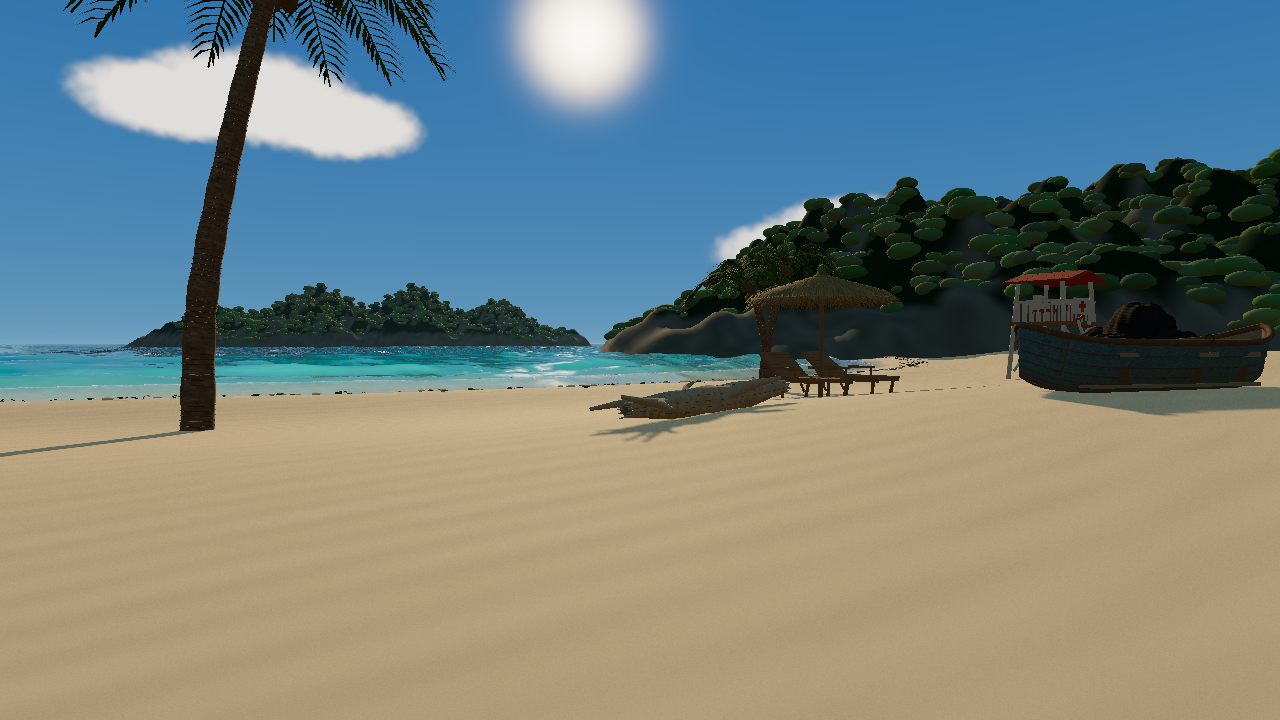
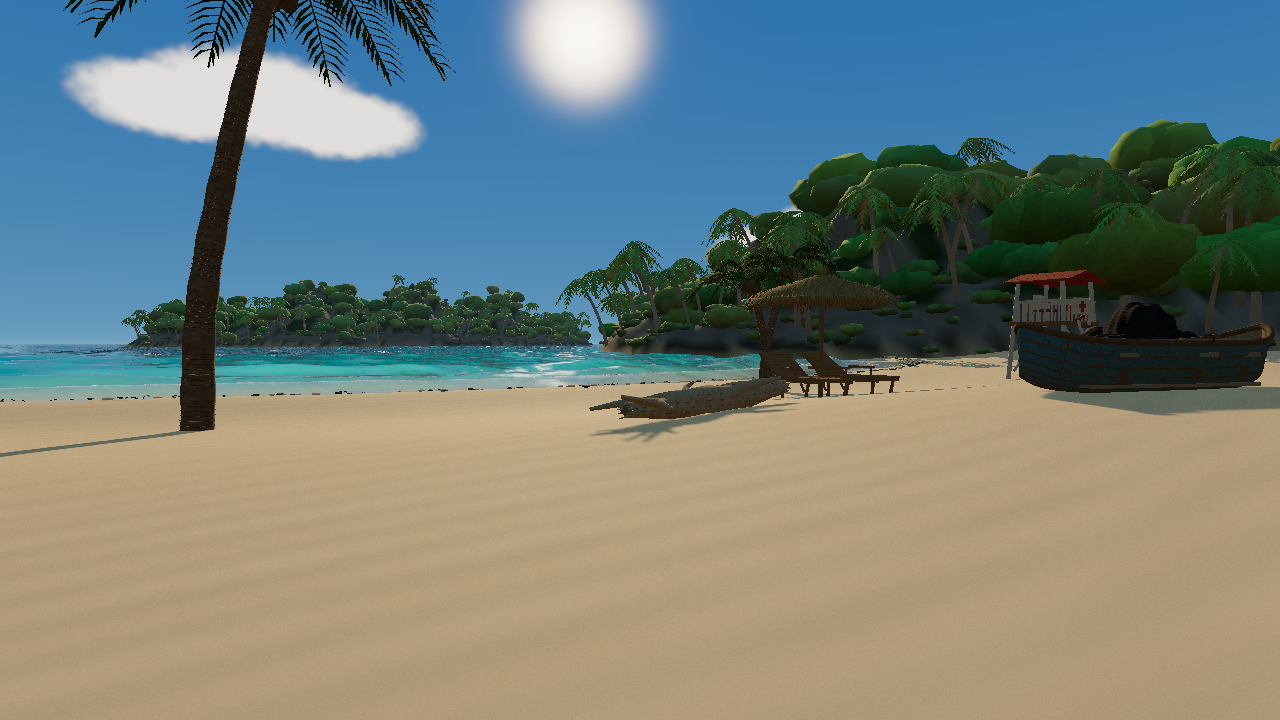
小島植被改版：不規則闊葉樹冠（底部較暗、近看有葉叢明暗）配短樹幹與突出樹、靠海往下坡傾的椰子樹、林緣與岩坡灌木；林下、水邊與岩石配色調整；固定種子、兩島共用 InstancedMesh，海灘碎貝殼位置不變；重拍三組固定鏡頭
Claude-Session: https://claude.ai/code/session_01USRpqyJ3nNu4mbR3gC6di4

diff --git a/src/vegetation.js b/src/vegetation.js
@@ -1,0 +1,121 @@
+import * as THREE from 'three';
+import { mergeGeometries, mergeVertices } from 'three/addons/utils/BufferGeometryUtils.js';
+
+// Tropical island vegetation for the shared landforms (src/coast.js): broadleaf trees, coconut palms and shrubs.
+// Every shape and placement comes from fixed seeds, so the scene is the same on every load and in every group.
+// Crowns are lumpy clumps of a few displaced blobs, darker underneath and inside, with a leaf-cluster pattern in
+// the shader near the camera; the hue comes from the instance colour. Palms are a curved, tapering trunk with
+// drooping feather fronds. Everything is instanced and shared by both islands: a handful of draw calls in all.
+const rng=seed=>()=>{seed|=0;seed=seed+0x6D2B79F5|0;let t=Math.imul(seed^seed>>>15,1|seed);t=t+Math.imul(t^t>>>7,61|t)^t;return((t^t>>>14)>>>0)/4294967296;};
+const hash3=(v,salt)=>{const h=Math.sin(v.x*12.9898+v.y*78.233+v.z*37.719+salt)*43758.5453;return h-Math.floor(h);};
+
+// A crown: k blobs spread over a dome, each displaced as a function of direction (so shared corners stay shared),
+// smooth-shaded, with normals bent away from the crown's centre (soft, like a mass of leaves).
+function crownGeometry(seed,detail,k){
+ const r=rng(seed),parts=[];
+ for(let i=0;i<k;i++){
+  let g=new THREE.IcosahedronGeometry(1,detail);g.deleteAttribute('uv');g.deleteAttribute('normal');g=mergeVertices(g);
+  const a=r()*Math.PI*2,d=i?.35+r()*.35:0,s=i?.42+r()*.28:.62+r()*.12,salt=r()*100,tint=.85+r()*.3;
+  const c=new THREE.Vector3(Math.cos(a)*d,i?r()*.35-.05:.1,Math.sin(a)*d),p=g.attributes.position,v=new THREE.Vector3();
+  for(let j=0;j<p.count;j++){v.fromBufferAttribute(p,j);const bump=1+(hash3(v,salt)-.5)*.34;v.multiplyScalar(s*bump).add(c);p.setXYZ(j,v.x,v.y,v.z);}
+  g.setAttribute('tint',new THREE.Float32BufferAttribute(new Array(p.count).fill(tint),1));parts.push(g);
+ }
+ const g=mergeGeometries(parts);g.computeVertexNormals();
+ const p=g.attributes.position,n=g.attributes.normal,tint=g.attributes.tint,box=new THREE.Box3().setFromBufferAttribute(p),center=new THREE.Vector3(0,box.min.y*.4,0),colors=[],v=new THREE.Vector3(),nn=new THREE.Vector3();
+ for(let j=0;j<p.count;j++){
+  v.fromBufferAttribute(p,j);nn.fromBufferAttribute(n,j).lerp(v.clone().sub(center).normalize(),.55).normalize();n.setXYZ(j,nn.x,nn.y,nn.z);
+  // Darker underneath and inside (self-shadowed leaves), lighter where the top catches the sky, and speckled.
+  const h=(v.y-box.min.y)/(box.max.y-box.min.y),shade=(.48+.64*h)*tint.getX(j)*(.84+.28*hash3(v,seed));
+  colors.push(shade*.92,shade,shade*.85);
+ }
+ g.setAttribute('color',new THREE.Float32BufferAttribute(colors,3));g.deleteAttribute('tint');
+ return g;
+}
+
+// A coconut palm, height 1 (scaled per instance): the trunk curves towards +x, fronds arch and droop.
+function palmGeometry(seed){
+ const r=rng(seed),pos=[],col=[],idx=[];
+ const bend=.12+r()*.16,sides=6,rings=9,trunkAt=t=>new THREE.Vector3(bend*t*t,t,0),top=trunkAt(1);
+ for(let i=0;i<=rings;i++){const t=i/rings,c=trunkAt(t),rad=.028-.012*t,ring=.78+.22*Math.abs(Math.sin(i*2.7));
+  for(let s=0;s<sides;s++){const a=s/sides*Math.PI*2;pos.push(c.x+Math.cos(a)*rad,c.y,c.z+Math.sin(a)*rad);const k=.38*ring;col.push(k*1.02,k*.95,k*.82);}}
+ for(let i=0;i<rings;i++)for(let s=0;s<sides;s++){const a=i*sides+s,b=i*sides+(s+1)%sides;idx.push(a,b,a+sides,b,b+sides,a+sides);}
+ let base=pos.length/3;const fronds=9+Math.floor(r()*4),segs=10;
+ for(let f=0;f<fronds;f++){
+  const yaw=f/fronds*Math.PI*2+r()*.4,lift=.45-r()*.85,len=.3+r()*.1,old=lift<-.3,dir=new THREE.Vector3(Math.cos(yaw),0,Math.sin(yaw)),side=new THREE.Vector3(-dir.z,0,dir.x);
+  // Live fronds green; the lowest, drooping ones dull olive (drying).
+  const green=old?[.36,.38,.17]:[.2+r()*.05,.4+r()*.08,.12+r()*.05];
+  const spine=[];for(let i=0;i<=segs;i++){const t=i/segs;spine.push(top.clone().addScaledVector(dir,len*t).add(new THREE.Vector3(0,len*(lift*t-.75*t*t),0)));}
+  for(let i=0;i<segs;i++){const a=spine[i],b=spine[i+1],w=len*.24*Math.sin(Math.PI*(i+.8)/(segs+.6));
+   // Leaflets: narrow blades angled forward and down from the spine, both sides.
+   for(const k of [-1,1]){const tip=b.clone().addScaledVector(side,k*w).add(new THREE.Vector3(0,-w*.6,0)).addScaledVector(dir,len*.06);
+    pos.push(a.x,a.y,a.z,b.x,b.y,b.z,tip.x,tip.y,tip.z);const shade=.85+r()*.3;
+    for(let q=0;q<3;q++){const e=q===2?.8:1;col.push(green[0]*shade*e,green[1]*shade*e,green[2]*shade*e);}idx.push(base,base+1,base+2);base+=3;}}
+ }
+ const g=new THREE.BufferGeometry();g.setAttribute('position',new THREE.Float32BufferAttribute(pos,3));g.setAttribute('color',new THREE.Float32BufferAttribute(col,3));g.setIndex(idx);
+ const parts=[g.toNonIndexed()];
+ // A few coconuts under the crown.
+ for(let i=0;i<3;i++){const a=i*2.1+r(),c=new THREE.IcosahedronGeometry(.018,0).translate(top.x+Math.cos(a)*.022,top.y-.025,top.z+Math.sin(a)*.022);c.deleteAttribute('uv');c.deleteAttribute('normal');
+  c.setAttribute('color',new THREE.Float32BufferAttribute(Array.from({length:c.attributes.position.count},()=>[.35,.28,.12]).flat(),3));parts.push(c);}
+ const merged=mergeGeometries(parts);merged.computeVertexNormals();return merged;
+}
+
+// A broadleaf trunk: a tapering 6-sided post, height and radius 1, scaled per tree.
+function trunkGeometry(){const g=new THREE.CylinderGeometry(.6,1,1,6,1,true).translate(0,.5,0);g.deleteAttribute('uv');
+ g.setAttribute('color',new THREE.Float32BufferAttribute(Array.from({length:g.attributes.position.count},()=>[.36,.32,.26]).flat(),3));return g;}
+
+// Leaf clusters: near the camera the crowns get a pattern of lighter and darker clumps (world-space noise, faded
+// out with distance so far islands do not shimmer).
+function foliageMaterial(){
+ const m=new THREE.MeshStandardMaterial({vertexColors:true,roughness:.92});
+ m.onBeforeCompile=s=>{
+  s.vertexShader=s.vertexShader.replace('#include <common>','#include <common>\nvarying vec3 vLeaf;').replace('#include <worldpos_vertex>','#include <worldpos_vertex>\nvLeaf=(modelMatrix*instanceMatrix*vec4(transformed,1.)).xyz;');
+  s.fragmentShader=s.fragmentShader.replace('#include <common>',`#include <common>
+   varying vec3 vLeaf;
+   float leafHash(vec3 p){p=fract(p*.3183099+.1);p*=17.;return fract(p.x*p.y*p.z*(p.x+p.y+p.z));}
+   float leafNoise(vec3 x){vec3 i=floor(x),f=fract(x);f=f*f*(3.-2.*f);
+    return mix(mix(mix(leafHash(i),leafHash(i+vec3(1,0,0)),f.x),mix(leafHash(i+vec3(0,1,0)),leafHash(i+vec3(1,1,0)),f.x),f.y),
+     mix(mix(leafHash(i+vec3(0,0,1)),leafHash(i+vec3(1,0,1)),f.x),mix(leafHash(i+vec3(0,1,1)),leafHash(i+vec3(1,1,1)),f.x),f.y),f.z);}`)
+   .replace('#include <color_fragment>',`#include <color_fragment>
+   {float near=1.-smoothstep(25.,110.,length(vViewPosition));
+    float n=leafNoise(vLeaf*2.2)*.65+leafNoise(vLeaf*5.3)*.35;
+    diffuseColor.rgb*=mix(1.,.55+.8*n,near);}`);
+ };
+ return m;
+}
+
+// Plant islands into shared instanced meshes: plant() once per island, then finish().
+export function createVegetation(group){
+ const lists={crownNear:[],crownFar:[],shrub:[],palm:[],trunk:[]};
+ // shape(x,z): the island's height at local (x, z); rock(x,z,y): bare rock there; detail 'near' or 'far'.
+ function plant({cx,cz,rx,rz,shape,rock,seed,detail,counts}){
+  const r=rng(seed),o=new THREE.Object3D(),color=new THREE.Color();
+  const slope=(x,z)=>Math.hypot(shape(x+1,z)-shape(x-1,z),shape(x,z+1)-shape(x,z-1))/2;
+  // The yaw that turns local +x downhill (rotateY(a) sends +x to (cos a, 0, -sin a)).
+  const downhill=(x,z)=>Math.atan2(shape(x,z+1)-shape(x,z-1),-(shape(x+1,z)-shape(x-1,z)));
+  const pick=test=>{for(let i=0;i<60;i++){const x=(r()-.5)*rx*1.9,z=(r()-.5)*rz*1.9,y=shape(x,z);if(test(x,z,y))return [x,z,y];}return null;};
+  const put=(list,place)=>{place(o,color);o.updateMatrix();list.push([o.matrix.clone(),color.clone()]);};
+  // Broadleaf trees: crowns overlap in layers on short trunks; a few emergent trees break the skyline.
+  for(let i=0;i<counts.canopy;i++){const p=pick((x,z,y)=>y>2.2&&(!rock(x,z,y)||r()<.15)&&slope(x,z)<1.6);if(!p)continue;const [x,z,y]=p,big=r()<.08;
+   const s=big?4.2+r()*1.6:1.8+r()*2,lift=s*(.12+r()*.28)+(big?3:0);
+   put(detail==='near'?lists.crownNear:lists.crownFar,(o,c)=>{o.position.set(cx+x,y+lift,cz+z);o.scale.set(s*(1+r()*.25),s*(.74+r()*.3),s*(1+r()*.25));o.rotation.set(0,r()*6.3,0);c.setHSL(.2+r()*.13,.36+r()*.24,.2+r()*.12);});
+   put(lists.trunk,(o,c)=>{const w=.12+s*.05;o.position.set(cx+x,y-.3,cz+z);o.scale.set(w,lift+.3,w);o.rotation.set((r()-.5)*.12,r()*6.3,(r()-.5)*.12);c.setRGB(1,1,1);});}
+  // Shrubs: the forest edge, low ground and rocky slopes.
+  for(let i=0;i<counts.shrub;i++){const p=pick((x,z,y)=>y>.6&&y<6.5&&slope(x,z)<1.8||rock(x,z,y)&&y>2);if(!p)continue;const [x,z,y]=p;
+   put(lists.shrub,(o,c)=>{const s=.6+r()*1.1;o.position.set(cx+x,y+s*.15,cz+z);o.scale.set(s*1.3,s*(.55+r()*.3),s*1.2);o.rotation.set(0,r()*6.3,0);c.setHSL(.17+r()*.12,.3+r()*.2,.17+r()*.1);});}
+  // Coconut palms: mostly along the shore, leaning downhill towards the water; a few on the ridges.
+  for(let i=0;i<counts.palm;i++){const p=pick((x,z,y)=>{const e=(x/rx)**2+(z/rz)**2;return i%7===0?y>8&&slope(x,z)<1.2:y>.5&&y<9&&e>.42&&slope(x,z)<1.4;});if(!p)continue;const [x,z,y]=p;
+   put(lists.palm,(o,c)=>{const h=7+r()*5.5;o.position.set(cx+x,y-.3,cz+z);o.scale.setScalar(h);
+    // The trunk bends towards local +x: turn that downhill, then lean a little more that way.
+    o.rotation.set(0,0,0);o.rotateY(downhill(x,z));o.rotateZ(-(.06+r()*.16));const k=.88+r()*.25;c.setRGB(k,k,k*.95);});}
+ }
+ function finish(){
+  const foliage=foliageMaterial(),plain=new THREE.MeshStandardMaterial({vertexColors:true,roughness:.9}),fronds=new THREE.MeshStandardMaterial({vertexColors:true,roughness:.85,side:THREE.DoubleSide});
+  const sets=[[lists.crownNear,[11,23].map(s=>crownGeometry(s,1,5)),foliage],[lists.crownFar,[11,23].map(s=>crownGeometry(s,0,5)),foliage],
+   [lists.shrub,[51,63].map(s=>crownGeometry(s,0,4)),foliage],[lists.palm,[71,83].map(palmGeometry),fronds],[lists.trunk,[trunkGeometry()],plain]];
+  for(const [list,geos,material] of sets){const meshes=geos.map(g=>{const m=new THREE.InstancedMesh(g,material,Math.max(1,Math.ceil(list.length/geos.length)));m.count=0;m.castShadow=m.receiveShadow=true;group.add(m);return m;});
+   list.forEach(([matrix,color],i)=>{const m=meshes[i%meshes.length];m.setMatrixAt(m.count,matrix);m.setColorAt(m.count,color);m.count++;});
+   for(const m of meshes){m.instanceMatrix.needsUpdate=true;if(m.instanceColor)m.instanceColor.needsUpdate=true;m.computeBoundingSphere();}}
+  return Object.fromEntries(Object.entries(lists).map(([k,v])=>[k,v.length]));
+ }
+ return {plant,finish};
+}

diff --git a/src/coast.js b/src/coast.js
@@ -1,19 +1,30 @@
 import * as THREE from 'three';
 import { shore, groundHeight } from './terrain.js';
+import { createVegetation } from './vegetation.js';
 // Shared landscape details, deliberately outside the experimental prop root.
 export function addCoastDetails(scene) {
  let seed=7921;
  const rand=()=>{seed=(1664525*seed+1013904223)>>>0;return seed/4294967296;};
  const land=new THREE.Group();land.name='shared-coastal-landforms';scene.add(land);
  function hill(cx,cz,rx,rz,height){
+  const rock=(x,z,y)=>!(y>height*.20&&Math.sin(x*.32+z*.44)+Math.cos(z*.24)<1.1);
   const shape=(x,z)=>{const e=Math.max(0,1-(x/rx)**2-(z/rz)**2);return Math.pow(e,.7)*(height*(.70+.18*Math.sin(x*.14+z*.06)+.12*Math.sin(x*.31-z*.22))+2*Math.sin(x*.8+z*.5))-.5;};
   const g=new THREE.PlaneGeometry(rx*2,rz*2,110,70);g.rotateX(-Math.PI/2);const p=g.attributes.position,colors=[];
-  for(let i=0;i<p.count;i++){const x=p.getX(i),z=p.getZ(i),y=shape(x,z);p.setY(i,y);const vegetation=y>height*.20&&Math.sin(x*.32+z*.44)+Math.cos(z*.24)<1.1;const c=new THREE.Color(vegetation?0x24452c:0x73766b);c.multiplyScalar(.8+rand()*.35);colors.push(c.r,c.g,c.b);}
+  for(let i=0;i<p.count;i++){const x=p.getX(i),z=p.getZ(i),y=shape(x,z);p.setY(i,y);const vegetation=y>height*.20&&Math.sin(x*.32+z*.44)+Math.cos(z*.24)<1.1,f=.8+rand()*.35;
+   // Forest floor (lighter and browner than before, so gaps between crowns are not black), bare rock on the
+   // outcrops and steep faces, and a sand and wet-rock fringe at the water.
+   const steep=Math.hypot(shape(x+1,z)-shape(x-1,z),shape(x,z+1)-shape(x,z-1))/2,blend=Math.sin(x*.9)*Math.sin(z*.7)*.5+.5;
+   const c=new THREE.Color(y<.9?0xb9a77f:y<1.8?0x5f5a4c:vegetation&&steep<1.5?(blend>.5?0x3b5530:0x4a5a33):0x86837a);c.multiplyScalar(f);colors.push(c.r,c.g,c.b);}
   g.setAttribute('color',new THREE.Float32BufferAttribute(colors,3));g.computeVertexNormals();const mesh=new THREE.Mesh(g,new THREE.MeshStandardMaterial({vertexColors:true,roughness:1}));mesh.position.set(cx,0,cz);mesh.receiveShadow=true;mesh.castShadow=true;land.add(mesh);
-  const trees=new THREE.InstancedMesh(new THREE.IcosahedronGeometry(1,1),new THREE.MeshStandardMaterial({color:0xffffff,roughness:1}),3200);const dummy=new THREE.Object3D();
-  for(let i=0;i<3200;i++){let x=(rand()-.5)*rx*1.65,z=(rand()-.5)*rz*1.65,y=shape(x,z);if(y<3){i--;continue;}const r=.5+rand()*.9;dummy.position.set(cx+x,y-r*.3,cz+z);dummy.scale.set(r*1.5,r*.8,r*1.3);dummy.rotation.set(0,rand()*6,0);dummy.updateMatrix();trees.setMatrixAt(i,dummy.matrix);trees.setColorAt(i,new THREE.Color().setHSL(.26+rand()*.07,.28+rand()*.25,.13+rand()*.08));}trees.castShadow=true;land.add(trees);
+  // The old blob trees drew from the shared seed; draw the same numbers so the tide debris below stays where it was.
+  for(let i=0;i<3200;i++){const x=(rand()-.5)*rx*1.65,z=(rand()-.5)*rz*1.65;if(shape(x,z)<3){i--;continue;}for(let k=0;k<5;k++)rand();}
+  return {shape,rock};
  }
- hill(90,-340,105,40,29);hill(114,-58,64,78,29);
+ const islands=[[90,-340,105,40,29,'far',{canopy:760,shrub:420,palm:110},211],[114,-58,64,78,29,'near',{canopy:920,shrub:620,palm:150},307]];
+ const plants=new THREE.Group();plants.name='island-vegetation';land.add(plants);
+ const vegetation=createVegetation(plants);
+ for(const [cx,cz,rx,rz,h,detail,counts,seed] of islands){const {shape,rock}=hill(cx,cz,rx,rz,h);vegetation.plant({cx,cz,rx,rz,shape,rock,seed,detail,counts});}
+ vegetation.finish();
  const debris=new THREE.Group();debris.name='shared-tide-debris';scene.add(debris);
  const geometries=[new THREE.SphereGeometry(1,7,4),new THREE.IcosahedronGeometry(1,0),new THREE.TorusGeometry(1,.12,4,7,3.5)];
  const materials=[new THREE.MeshStandardMaterial({color:0xeee1c8}),new THREE.MeshStandardMaterial({color:0x6e7167}),new THREE.MeshStandardMaterial({color:0x494333})];

diff --git a/NOTES.md b/NOTES.md
@@ -285,3 +285,4 @@ Open **http://localhost:5191/game.html** (also linked as **遊戲模式** on the
 - **船尾航跡與吃水線泡沫（2026-10-21）**：參考一般遊戲做法（CapCôtier 的泡沫帶、Tidewater／Boat Attack 的航跡圖），新增 `src/game/wake.js`。划船時每 0.15 秒記下船尾位置，畫成一條貼在水面上的泡沫帶：兩側是船頭浪散開的兩條泡沫線，中間是划槳攪出的白沫，約以開爾文角（19.5°）往外張開（最快每秒 1.2 m），5.5 秒內碎成小塊後消失，碰到沙灘的部分不畫。船身吃水線一圈泡沫，船速越快船頭越寬。泡沫貼圖固定在水面上，不跟著船滑動。全部由取樣與時間算出，逐格錄影一致。`surfaceHeight()` 改為同一時間共用網格頂點的計算結果，每格多約 0.5 ms。前後對照：`video/wake_before_after.mp4`。
 - **水花水滴改版（2026-10-21）**：水滴從小圓球改成面向鏡頭、沿速度方向拉長的半透明貼片（看起來像飛濺的水痕），從槳葉整個寬度噴出；用力入水時多一團淡淡往上散的水霧；槳葉出水後 0.8 秒內一路滴水，落水處留下小水圈；小槳渦只帶幾顆水滴。水滴核心亮度調低，避免剛濺起時疊在一起被泛光放大成白球。
 - **海浪細節（2026-10-21）**：只改水面著色，不動水面幾何，CPU 的 `sampleWater()`／`surfaceHeight()` 不變。外海網格太粗，所以在 fragment shader 逐像素重算 4 道 Gerstner 波（`swellState()`）：浪體上半部透出綠藍色的光（逆光時最明顯），浪峰被擠得最尖的地方冒出白浪（看水平位移的 Jacobian，分塊出現，碎後留一點白沫）。這片海浪小，白浪很少，比較像平靜的潟湖。遊戲中小船把最近 24 個船尾位置傳給水面（`wakeRings`），每點以船速三分之一往外擴散一圈小波紋，疊起來形成約 19.5° 的 V 形尾流（運動學尾流的做法）；從上往下看反射很弱，所以波紋面向鏡頭的一側稍亮、背向的稍暗。三組共用，盲評分數與 REPORT 是之前的畫面。`verify-explore` 在機器高負載時手機頁面 30 秒內載不完會逾時，改動前的版本也一樣。
+- **小島植被（2026-10-21）**：原本兩座島（遠處小島與右側岬角）各是 3200 顆圓球樹冠，看起來一團團。改成 `src/vegetation.js`：闊葉樹冠由幾顆變形的小球拼成不規則的一團、底部與內側較暗、近看有葉叢明暗（shader 的世界座標雜訊，約 110 m 外淡出避免閃爍），下面有短樹幹，少數高大的突出樹讓輪廓起伏；椰子樹（彎曲漸細的樹幹、下垂的羽狀葉、底下幾顆椰子）多長在靠海處、往下坡傾；林緣、低處與岩坡有灌木。地面顏色：林下改淺一點的綠褐色（原本樹冠間的縫是黑的），水邊一圈沙與濕岩，岩石調亮。全部固定種子，兩座島共用 9 個 InstancedMesh。原本樹木的亂數和海灘碎貝殼共用同一個種子，所以 `hill()` 照舊抽同樣的亂數，碎貝殼位置不變（實例矩陣校驗和相同）。wide 鏡頭：draw call 63 → 83，三角形 338 萬 → 395 萬（含陰影與反射 pass）。三組共用，盲評分數與 REPORT 是之前的畫面。

diff --git a/CLAUDE.md b/CLAUDE.md
@@ -128,6 +128,7 @@ There is no lint or unit-test setup. Verification means running the Playwright s
   - Lounger: `findSurface` returns `lie {point, recline}` from the lounger's height profile (slat gaps ignored): hips just in front of the backrest bend, on a slat; `character.update({recline})` tips the body back to the backrest slope with the legs level on the seat.
   - Boat: the hull frame ignores parts sticking out (C's model includes its oars): the longest run of columns reaching near the bottom sets the centre line when it is off the box centre. The feet stand on the measured inner floor plus `character.ankleHeight`.
   - On the ground the soles keep the clip's world orientation through leg IK, so a squat does not dig the toes into the sand.
+- **Island vegetation** (`src/vegetation.js`, called from `src/coast.js`, shared by all groups; since 2026-10-21, blind scores and REPORT predate it): broadleaf crowns (lumpy clumps of displaced blobs, darker underneath, a world-space leaf-cluster pattern in the shader that fades out past ~110 m) on short trunks with a few emergent trees, coconut palms (curved trunk, drooping feather fronds) mostly along the shore leaning downhill, and shrubs at the forest edge and on rock. Fixed seeds; instanced meshes shared by both islands (9 meshes). The old blob trees drew from the coast's shared seed, so `hill()` still draws the same numbers: the tide debris on the beach is unchanged (checksum of its instance matrices). Terrain colours: lighter forest floor, sand and wet-rock fringe at the water, lighter rock.
 - **Shadows.** The sun is low (about 22°). The shadow camera's depth range is set to the scene (near 5, far 200) with bias -.00005 and normalBias .03, map 4096: the old default range made bias -.0004 about 20 cm, so shadows started ~0.5 m from prop bases and props looked afloat.
 - **Game boat in the water.** The clone floats with a draft (keel a quarter of the hull height, 12–25 cm, under the water line; height and tilt fit the water at bow, stern and both sides, since near the shore a hull levelled at its centre had water 15 cm over its inside). The heights come from `surfaceHeight()` in `src/water.js`, the water as drawn: offshore the water mesh rows are 10–16 m apart, so the flat triangles stray 20–30 cm from the exact field (`sampleWater`), and every ten seconds or so a crest covered the whole inside of a hull that followed the exact field. A depth-only cap over the hull's inside (20 cm above the water line, `renderOrder` 1, water 2) keeps the opaque water plane from showing inside the hull; the water stays at least 8 cm under it along the whole route. The hull's long axis comes from the vertex spread (C's oars skewed the box) and the narrower end is the bow (B and C ran transom first before); the rower takes a thwart clear of the floor in the aft half, so the legs have room before the bow narrows. Its materials are double-sided (C's single-skin hull showed the sea from inside).
 - **Bloom guard.** `src/main.js` runs a pass before bloom that turns NaN/Inf pixels to black and caps values at 1e4; otherwise one bad pixel (seen near A's palm_pair in game mode) spreads over the whole frame and the verifier sees an "empty" frame. Normal pixels are unchanged (A stills match to 1 level).
